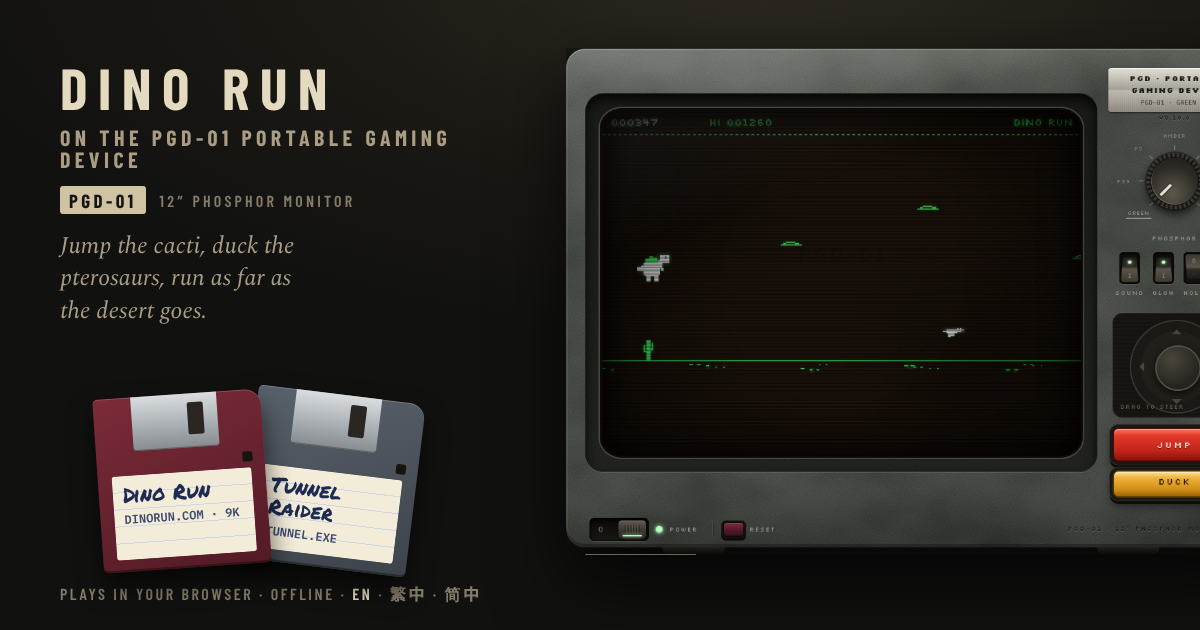
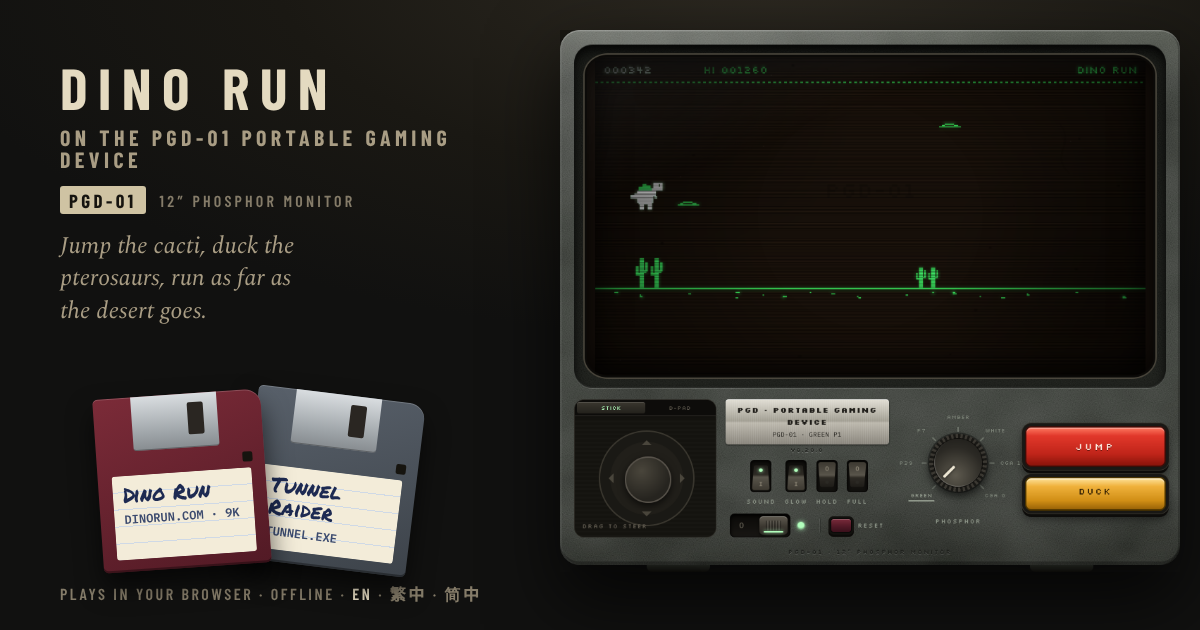
feat(console): a two-handed desk set, stick left, buttons right, full-width tube
On desk the tube now spans the set's full width in a 16:9 shape, with a deck
under it: the stick well (and its STICK / D-PAD switch) at the far left, FIRE
and BOOST at the far right, and the nameplate, switches, POWER, RESET and the
dial between them. The set grows with the window until it fills its height.
Button-pad disks split their pad as on the sideways console. Share images and
README screenshots are re-captured.

Refs GAM-114

Claude-Session: https://claude.ai/code/session_01KVgNwszYVvfqe7MTAzj6og

diff --git a/src/styles/console.css b/src/styles/console.css
@@ -596,7 +596,7 @@ h1 .h-dx{color:#cfc3a3}
 .padkey:focus-visible{outline:2px solid var(--phos);outline-offset:4px}
 [data-off] .padkey{filter:saturate(.25) brightness(.5)}
 /* sideways console only: three red bays on the right with CLUSTER under them, UFO above METEORS on the left.
-   Desk and portrait keep the two-row pad inside the stick. The buttons leave their boxes and join the face grid. */
+   Portrait keeps the two-row pad inside the stick (desk splits it too, at the end of this file). The buttons leave their boxes and join the face grid. */
 [data-pad][data-layout="console"] .stickzone,[data-pad][data-layout="console"] #btnpad,[data-pad][data-layout="console"] .keyrow{display:contents}
 [data-pad][data-layout="console"] .tv-face{grid-template-rows:auto auto minmax(0,1fr) auto auto;grid-template-areas:"rock screen dial" "pwr screen dial" ". screen plate" "ufo screen bays" "met screen clus"}
 [data-pad][data-layout="console"] #btnpad .bayrow{display:grid;grid-area:bays;grid-template-columns:repeat(3,minmax(0,1fr));gap:6px;height:52px;min-width:0;margin-inline:4px;align-self:end}
@@ -615,3 +615,51 @@ h1 .h-dx{color:#cfc3a3}
    which setting is on, so the hint goes */
 .stickzone{container-type:size}
 @container (max-height:175px){.dhint{display:none !important}}
+
+/* ---- desk, the widest set (GAM-114): built for two hands. The tube spans the full width in a 16 : 9 shape; under it
+   a control deck holds the stick well at the far left, FIRE and BOOST at the far right, and the nameplate, switches,
+   POWER, RESET and the dial between them. The set grows with the window until the whole of it fits the window's height.
+   Full screen keeps its own layout; an embedding page sizes the frame to the set, so there the width alone decides. ---- */
+@media (min-width:721px){
+  :root{--desk-min:880px}
+  :root[data-layout="desk"]:not([data-full]):not([data-embed]) .wrap{max-width:clamp(var(--desk-min), calc((100vh - 470px) * 16 / 9 + 104px), 1680px)}
+  @supports (height:100dvh){:root[data-layout="desk"]:not([data-full]):not([data-embed]) .wrap{max-width:clamp(var(--desk-min), calc((100dvh - 470px) * 16 / 9 + 104px), 1680px)}}
+  :root[data-layout="desk"]:not([data-full]) .tv-face{--fp:clamp(14px,1.6vw,22px);grid-template-columns:minmax(140px,200px) minmax(0,1fr) minmax(140px,200px);grid-template-rows:auto auto;
+    grid-template-areas:"screen screen screen" "stick ctl fire";gap:16px clamp(20px,2.6vw,36px);padding:var(--fp) var(--fp) calc(var(--fp) + 18px)}
+  :root[data-layout="desk"]:not([data-full]) .tube-surround{padding:clamp(10px,1.4vw,18px);align-self:stretch}
+  :root[data-layout="desk"]:not([data-full]) .screen{aspect-ratio:16/9}
+  :root[data-layout="desk"]:not([data-full]) .pad{display:contents}
+  :root[data-layout="desk"]:not([data-full]) .stickzone{grid-area:stick;height:auto;min-height:176px;align-self:stretch}
+  :root[data-layout="desk"]:not([data-full]) .keyrow{grid-area:fire;align-self:center;gap:14px}
+  :root[data-layout="desk"]:not([data-full]) .fire{height:58px;font-size:14px}
+  :root[data-layout="desk"]:not([data-full]) .boost{height:48px}
+  :root[data-layout="desk"]:not([data-full]) .controls{grid-area:ctl;display:grid;grid-template-columns:auto auto;grid-template-areas:"plate dial" "rock dial" "pwr dial";
+    align-content:center;justify-content:center;align-items:center;justify-items:center;gap:10px clamp(16px,2.4vw,32px)}
+  :root[data-layout="desk"]:not([data-full]) .nameplate{grid-area:plate;width:220px}
+  :root[data-layout="desk"]:not([data-full]) .dial-block{grid-area:dial}
+  :root[data-layout="desk"]:not([data-full]) .rockers{grid-area:rock}
+  :root[data-layout="desk"]:not([data-full]) .power{grid-area:pwr;position:static}
+  :root[data-layout="desk"]:not([data-full]) .power > .ctl-label{display:none}
+  :root[data-layout="desk"]:not([data-full]) .emboss{left:50%;right:auto;bottom:11px;transform:translateX(-50%)}
+  /* a button-pad disk (I Invade, ROCKETX) splits its pad as on the sideways console: the red bays and CLUSTER under the right
+     hand, UFO and METEORS under the left */
+  :root[data-pad][data-layout="desk"]:not([data-full]) .stickzone,:root[data-pad][data-layout="desk"]:not([data-full]) #btnpad,:root[data-pad][data-layout="desk"]:not([data-full]) .keyrow{display:contents}
+  :root[data-pad][data-layout="desk"]:not([data-full]) .tv-face{grid-template-rows:auto auto auto;grid-template-areas:"screen screen screen" "ufo ctl bays" "met ctl clus"}
+  :root[data-pad][data-layout="desk"]:not([data-full]) .controls{grid-row:2 / span 2}
+  :root[data-pad][data-layout="desk"]:not([data-full]) #btnpad .bayrow{display:grid;grid-area:bays;grid-template-columns:repeat(3,minmax(0,1fr));gap:8px;height:64px;min-width:0;align-self:end}
+  :root[data-pad][data-layout="desk"]:not([data-full]) #btnpad .bayrow .padkey{grid-column:auto;height:100%;font-size:15px}
+  :root[data-pad][data-layout="desk"]:not([data-full]) #btnpad #pad4Btn{grid-area:clus;height:64px;font-size:12px;align-self:start}
+  :root[data-pad][data-layout="desk"]:not([data-full]) #btnpad #pad5Btn{grid-area:met;height:64px;font-size:12px;align-self:start}
+  :root[data-pad][data-layout="desk"]:not([data-full]) #boostBtn{grid-area:ufo;height:64px;width:auto;align-self:end}
+  :root[data-pad][data-layout="desk"][data-game="rocketx"]:not([data-full]) #btnpad #pad4Btn{grid-area:met}
+  :root[data-pad][data-layout="desk"][data-game="rocketx"]:not([data-full]) #btnpad #pad5Btn{grid-area:clus}
+}
+/* a narrow or short desk window: a smaller plate, dial and stick well keep the deck on one row and the set on screen */
+@media (min-width:721px) and (max-width:900px),(min-width:721px) and (max-height:820px){
+  :root{--desk-min:760px}
+  :root[data-layout="desk"]:not([data-full]) .stickzone{min-height:156px}
+  :root[data-layout="desk"]:not([data-full]) .tv-face{grid-template-columns:minmax(132px,1fr) auto minmax(132px,1fr)}
+  :root[data-layout="desk"]:not([data-full]) .nameplate{width:176px}
+  :root[data-layout="desk"]:not([data-full]) .dial-wrap{width:124px;height:124px}
+  :root[data-layout="desk"]:not([data-full]) .dial{transform:scale(.84)}
+}

diff --git a/src/components/Joystick.tsx b/src/components/Joystick.tsx
@@ -1,8 +1,8 @@
 /** The floating on-screen joystick, the fixed D-pad that can take its place (GAM-112: the switch in the well's top
     top switches STICK ↔ D-PAD, a fixed cross with diagonals; logic in src/console/dpad.ts), and the button pad that takes its place while a game that has no use for a stick
     is playing (`controls: 'pad'` on its disk: I Invade). The pad is six optional slots, `pad1`…`pad6`, in two rows
-    of three; each shows only while the game maps it (see src/console/buttons.ts). The sideways console layout
-    lifts the three bays and CLUSTER out to the right (see console.css); this markup stays one pad. */
+    of three; each shows only while the game maps it (see src/console/buttons.ts). The sideways console and desk layouts
+    lift the three bays and CLUSTER out to the right (see console.css); this markup stays one pad. */
 export function Joystick(){
   return (
     <div className="stickzone" id="stickzone" aria-label="Joystick: touch and drag to steer">

diff --git a/tools/share-images/share.css b/tools/share-images/share.css
@@ -1,6 +1,6 @@
 html,body{margin:0;width:1200px;height:630px;overflow:hidden}
 body{position:relative;background:radial-gradient(90% 75% at 64% -6%,#2e2a22 0,#1a1813 46%,#111110 80%) #111110;color:#ddd3ba;font-family:Spectral,Georgia,serif}
-.tv{position:absolute;right:-56px;top:48px;width:690px;filter:drop-shadow(0 28px 36px rgba(0,0,0,.7))}
+.tv{position:absolute;right:20px;top:30px;width:620px;filter:drop-shadow(0 28px 36px rgba(0,0,0,.7))}
 .copy{position:absolute;left:60px;top:58px;width:470px;display:flex;flex-direction:column;gap:16px}
 h1{margin:0;font-family:"Barlow Condensed",sans-serif;font-weight:700;font-size:58px;line-height:1;letter-spacing:.18em;text-transform:uppercase;color:#e4dac0}
 h1 small{display:block;font-size:22px;letter-spacing:.2em;color:#a99d84;margin-top:10px}

diff --git a/AGENTS.md b/AGENTS.md
@@ -99,7 +99,7 @@ Requirements 1 to 12 below are built: the console boots into a disk menu with se
 ### 10. I Invade
 
 - The fourth disk: the fixed-screen alien shooter played from the other side, after the owner's brief and direction (GAM-24). The fleet starts at the bottom of the screen and attacks upward; the tanks hold the top (GAM-23). **No steering:** the fleet marches on its own, side to side, a row closer at each edge and faster as it thins. The player only picks which of the three bomb bays fires, and when (the outermost columns and the one nearest the fleet's middle, lit along its front): aiming is timing. Everything the fleet throws goes up.
-- **No joystick:** the disk sets `controls: 'pad'`, so while it plays (`ready`, `play`, `dying`, `clear`, `paused`) the stick's zone holds a button pad (`pad1`…`pad6`, two rows of three: ◀ ▲ ▶ bays on top, CLUSTER and METEORS underneath, sixth unused) and FIRE's row steps aside. On the sideways console layout only (`data-layout="console"`, short, tall and full screen) the three red bays sit on the right with CLUSTER under them, and UFO sits above METEORS on the left. Desk and the portrait layouts keep the two-row pad. Keys: <kbd>←</kbd> <kbd>↑</kbd> <kbd>→</kbd> or <kbd>Z</kbd> <kbd>X</kbd> <kbd>C</kbd> for the bays, <kbd>Space</kbd> (FIRE, labelled BOMB) for the middle one, <kbd>A</kbd> cluster, <kbd>S</kbd> meteors, <kbd>Shift</kbd> (BOOST, labelled UFO) the UFO. A tap on the screen fires the nearest bay (`api.tapX`). The stick is back for the console's own screens.
+- **No joystick:** the disk sets `controls: 'pad'`, so while it plays (`ready`, `play`, `dying`, `clear`, `paused`) the stick's zone holds a button pad (`pad1`…`pad6`, two rows of three: ◀ ▲ ▶ bays on top, CLUSTER and METEORS underneath, sixth unused) and FIRE's row steps aside. On the sideways console layout (`data-layout="console"`, short, tall and full screen) and on desk (GAM-114) the three red bays sit on the right with CLUSTER under them, and UFO sits above METEORS on the left. The portrait layouts keep the two-row pad. Keys: <kbd>←</kbd> <kbd>↑</kbd> <kbd>→</kbd> or <kbd>Z</kbd> <kbd>X</kbd> <kbd>C</kbd> for the bays, <kbd>Space</kbd> (FIRE, labelled BOMB) for the middle one, <kbd>A</kbd> cluster, <kbd>S</kbd> meteors, <kbd>Shift</kbd> (BOOST, labelled UFO) the UFO. A tap on the screen fires the nearest bay (`api.tapX`). The stick is back for the console's own screens.
 - **The brief's rules:** one fleet a game, no spares (a fresh formation each wave; lose every alien and the invasion is repelled). Tanks have three lives: a knocked-out tank is gone for 1.4 s, then rolls back in blinking and untouchable for 1.2 s. Teams per wave `[1, 1, 2, 3, 3, 4, 5, 6]`, holding at 6. Scoring: hit a tank 100, destroy one 300, every tank destroyed 20 per alien left, touchdown 500 + 20 per alien left.
 - **Weapons:** bombs (one in the air per bay, two from wave 6, 0.3 s apart); the cluster sweep (the earth-facing alien in each column, the lowest row index still alive, so a damaged column can fire from a different row: one shot at a time, left to right then right to left, for about 3 s; armed 2.5 s into a wave, then the button stays dark for another 7 s); the UFO carpet (crosses under the fleet, a bomb up every 0.3 s, 12 s recharge, starts half charged, shells through a gap bring it down); the meteor swarm (18 rocks from below the fleet, charged by other weapons' hits and a slow trickle, a bar under the score).
 - **Tanks:** `skill` 0 on wave 1 to 1 by wave 6, then only reload shortens. They dodge what's coming up (probabilistically), lead the march when they aim, fire one shell each (a shell knocks out a bomb or a cluster shot and carries on), hunt the bay that fired last, keep 16 px apart, and fire through their own walls when every column left is behind one.
@@ -238,6 +238,7 @@ Launcher fields on every disk (GAM-32, see the [Web launcher build spec](https:/
 - **One monitor, many games.** The CRT set, the phosphor dial, the SOUND / GLOW / HOLD / FULL switches, POWER and RESET belong to the console and work the same in every game.
 - **Retro and original.** Games are tributes at most: original names, characters, art, sound and code. Never copy another game's assets or trademarks.
 - **Four colours.** Everything on the tube goes through the palette quantiser and colour roles, so it looks right on green, amber, white and CGA.
+- **Desk, built for two hands (GAM-114, owner's call):** on `desk` the tube spans the set's full width in a 16 : 9 shape, and a deck under it holds the stick well at the far left, FIRE and BOOST at the far right, and the nameplate, switches, POWER, RESET and the dial between them. The set grows with the window until it fills the window's height (the `.wrap` formula at the end of `console.css`); an embed frame keeps the width-only sizing.
 - **Every screen size.** The layout detector picks `desk`, `phone-portrait`, `tablet-portrait` or `console`, and the playfield grid adapts to the tube's shape. The loader and every loading screen have to fit all of them, including the iPhone 17 Pro and Pro Max, an opened foldable, iPad mini and iPad Pro, in portrait and landscape.
 - **Offline.** The console and every game must play with no connection once cached. Anything in `public/` or built from `src/` is precached; files fetched some other way need a `runtimeCaching` rule in `astro.config.mjs`.
 - **Languages.** The page chrome and instructions come in English, Traditional Chinese and Simplified Chinese (`I18N`, chosen by `#en`, `#zh-hant` or `#zh-hans`). On-tube text stays English in the pixel font.

diff --git a/README.md b/README.md
@@ -48,7 +48,7 @@ Each game also has its own page that boots straight into its disk: `/tunnel-raid
   - **Switches:** SOUND, GLOW (all the tube effects), HOLD (pause) and FULL (full screen). HOLD switches itself on when you leave the tab or app mid-game, and stays on until you resume.
 - **FIRE and BOOST** change with the game: FIRE and BOOST in Tunnel Raider, JUMP and DUCK in Dino Run, FIRE and SHIELD in Invader Force (SHIELD turns into NUKE while you hold an atomic bomb), BOMB and UFO in I Invade, SERVE in Bricks, where BOOST stays dark, and FIRE, BOMB and LOOP in Martian Storm, and KICK in Reef Run, where BOOST stays dark. LOOP spends one tuck per press; BOMB (or <kbd>V</kbd>) sets off a bomb. In Dino Run and Invader Force a tap on the screen works as JUMP or FIRE; in I Invade it fires the nearest bomb bay; in Bricks it serves, and does nothing while the ember is already in the air; in Martian Storm it shoots, and it does not tuck; in Reef Run it kicks.
 - **Stick or D-pad:** the switch along the top of the joystick's well picks **STICK** (the floating thumb-stick) or **D-PAD** (a fixed cross, like a handheld's: press an arm, roll your thumb from one to the next, or press between two arms for a diagonal). Every game plays in both; games that move in four directions take the main one, and Martian Storm's skiff flies diagonally as it does with two keys. The setting stays on the device, and Settings reset puts STICK back. Logic in `src/console/dpad.ts`.
-- **The button pad:** a game with no use for the stick (I Invade) swaps it for a pad of up to six buttons while it plays, and FIRE's row steps aside. In I Invade the top row is the left, middle and right bomb bays (◀ ▲ ▶, or <kbd>←</kbd> <kbd>↑</kbd> <kbd>→</kbd>, <kbd>Z</kbd> <kbd>X</kbd> <kbd>C</kbd>; <kbd>Space</kbd> is the middle bay too) and the bottom row the cluster sweep (<kbd>A</kbd>) and the meteor swarm (<kbd>S</kbd>, dimmed until charged); BOOST (<kbd>Shift</kbd>) calls the UFO. On the sideways console layout the three red bays move to the right with CLUSTER under them, and UFO sits above METEORS on the left; desk and the portrait layouts keep the two-row pad. The stick is back for the menu, loading, name entry and the high scores.
+- **The button pad:** a game with no use for the stick (I Invade) swaps it for a pad of up to six buttons while it plays, and FIRE's row steps aside. In I Invade the top row is the left, middle and right bomb bays (◀ ▲ ▶, or <kbd>←</kbd> <kbd>↑</kbd> <kbd>→</kbd>, <kbd>Z</kbd> <kbd>X</kbd> <kbd>C</kbd>; <kbd>Space</kbd> is the middle bay too) and the bottom row the cluster sweep (<kbd>A</kbd>) and the meteor swarm (<kbd>S</kbd>, dimmed until charged); BOOST (<kbd>Shift</kbd>) calls the UFO. On the sideways console layout and on desk the three red bays move to the right with CLUSTER under them, and UFO sits above METEORS on the left; the portrait layouts keep the two-row pad. The stick is back for the menu, loading, name entry and the high scores.
 - **Instructions:** the printed leaflet under the set shows the console's instructions while the menu is up and the loaded game's while you play.
 - **Settings:** the foot of the leaflet has **Reset settings** (green P1, SOUND and GLOW on, HOLD and FULL off, English) and, kept apart in wine red, **Clear high scores** (every game's table and best, and the saved name, on this device). Each asks before it acts.
 - **Haptics:** on phones whose browser can vibrate (Chrome on Android, for one; Safari on iPhone and iPad can't), the set's controls tick when pressed (POWER, RESET, the four switches, each click of the dial, FIRE, BOOST, the extra fire keys and I Invade's button pad), a shot gives a short buzz, a catch in Invader Force a quick double buzz, and a lost life or the game's end a longer one. The stick gives a tiny nudge on each new direction. SOUND off keeps the phone still. Games call `api.buzz('fire' | 'pickup' | 'lose' | ms | pattern)`; the rules are in `src/kit/platform/haptics.ts`.

diff --git a/docs/developer-guide.md b/docs/developer-guide.md
@@ -362,7 +362,7 @@ The console's layout follows the screen, and the game has no say in it:
 | Tall console (tablet or foldable sideways) | Full height, left of the tube | Bottom right, under the dial and the switches |
 | Phone and tablet upright | Under the tube, on the left | Under the tube, on the right |
 
-On desk and the upright layouts the pad keeps its two rows. On the sideways console layouts it is split for I Invade: `pad1` to `pad3` on the right with `pad4` under them, and BOOST above `pad5` on the left. `pad6` has no place there yet. ROCKETX swaps `pad4` and `pad5` there (its left fin goes to the left hand), keyed on `data-game`; a further pad game with a different set of keys means another such block in `src/styles/console.css`.
+On the upright layouts the pad keeps its two rows. On desk and the sideways console layouts it is split for I Invade: `pad1` to `pad3` on the right with `pad4` under them, and BOOST above `pad5` on the left. `pad6` has no place there yet. ROCKETX swaps `pad4` and `pad5` there (its left fin goes to the left hand), keyed on `data-game`; a further pad game with a different set of keys means another such block in `src/styles/console.css`.
 
 ### What a game can't do with buttons (yet)
 
